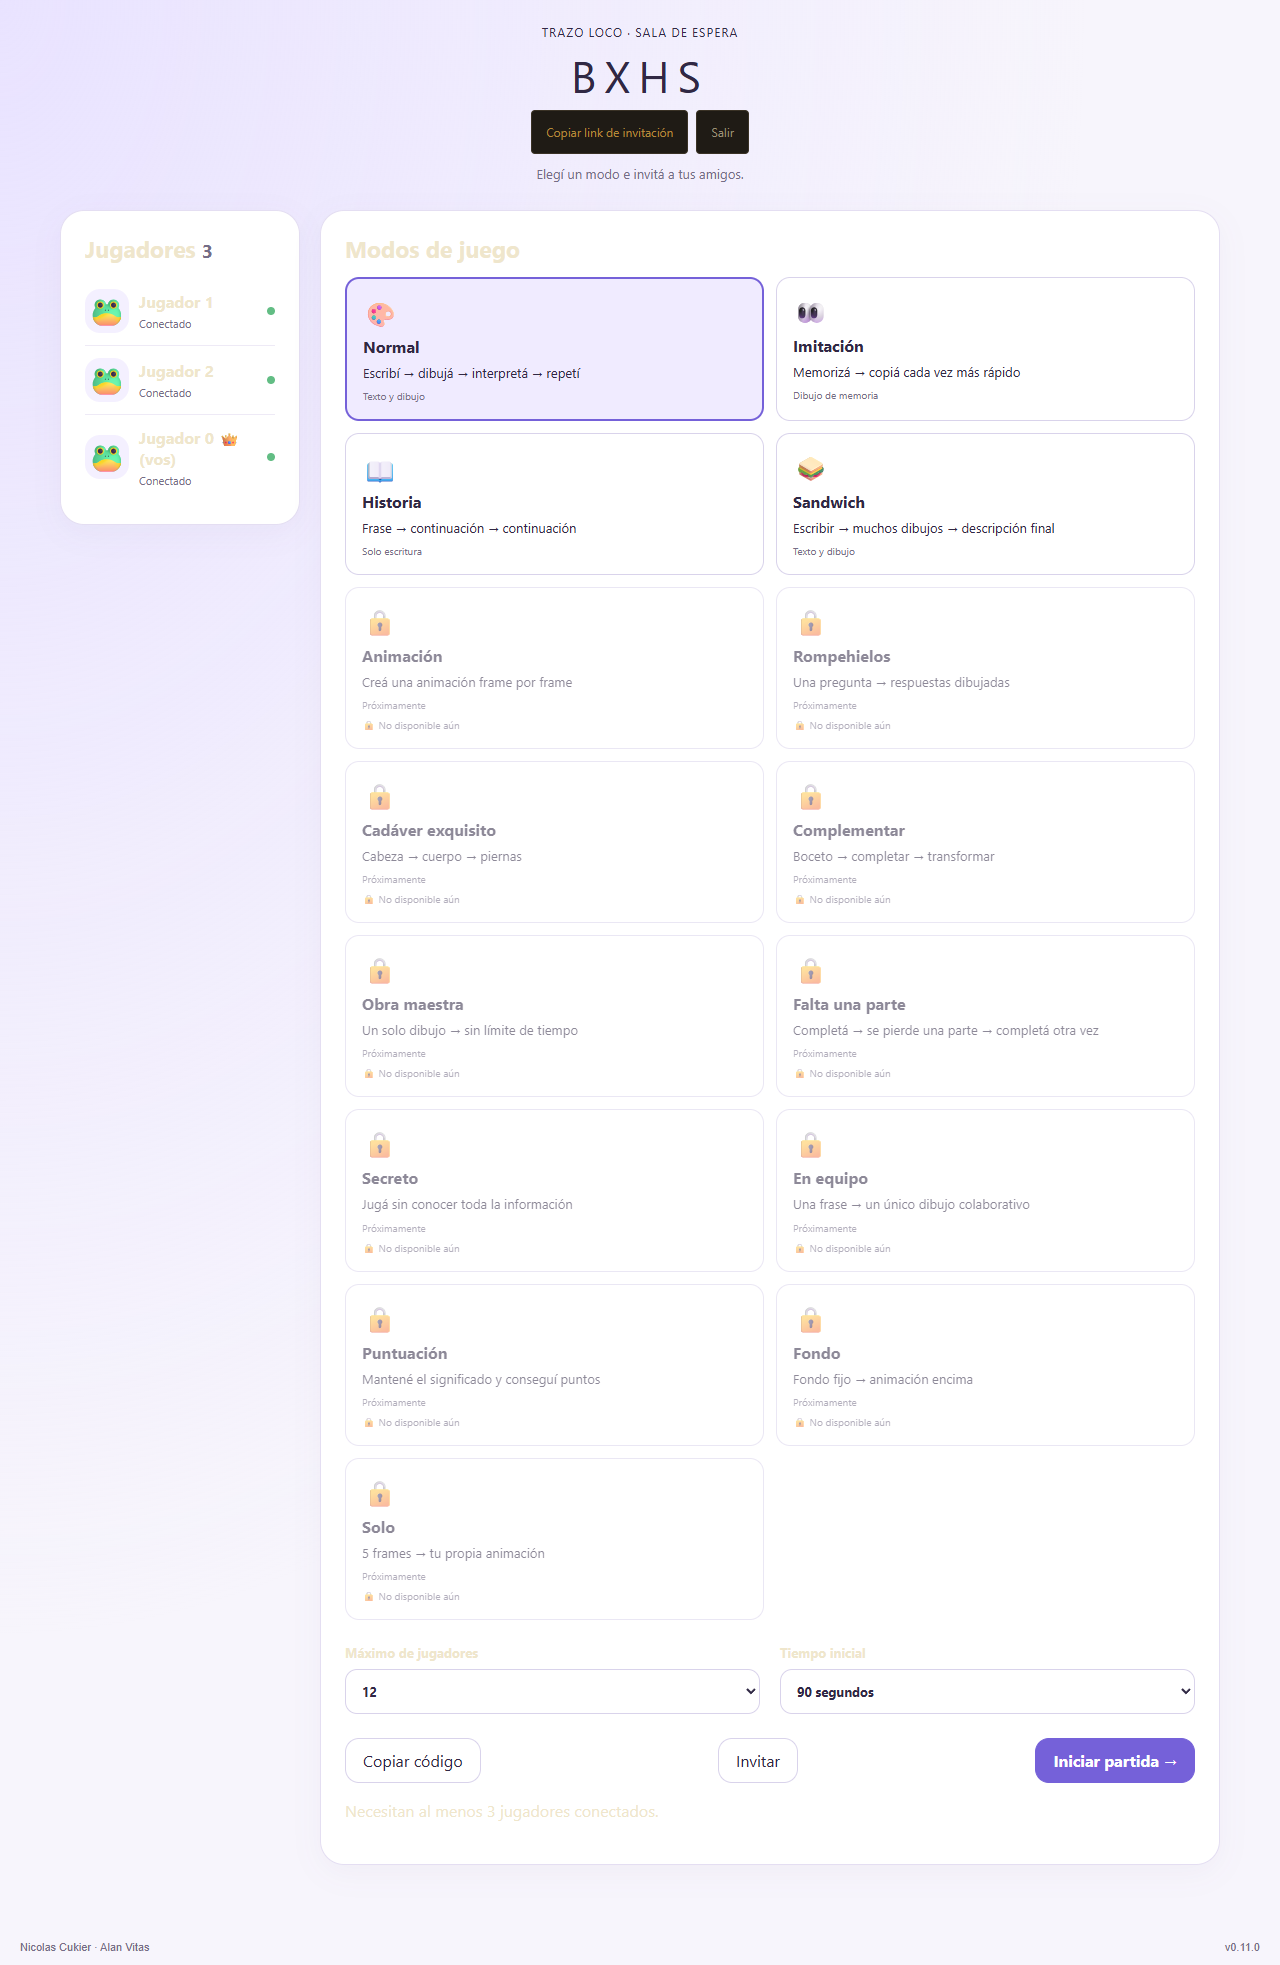
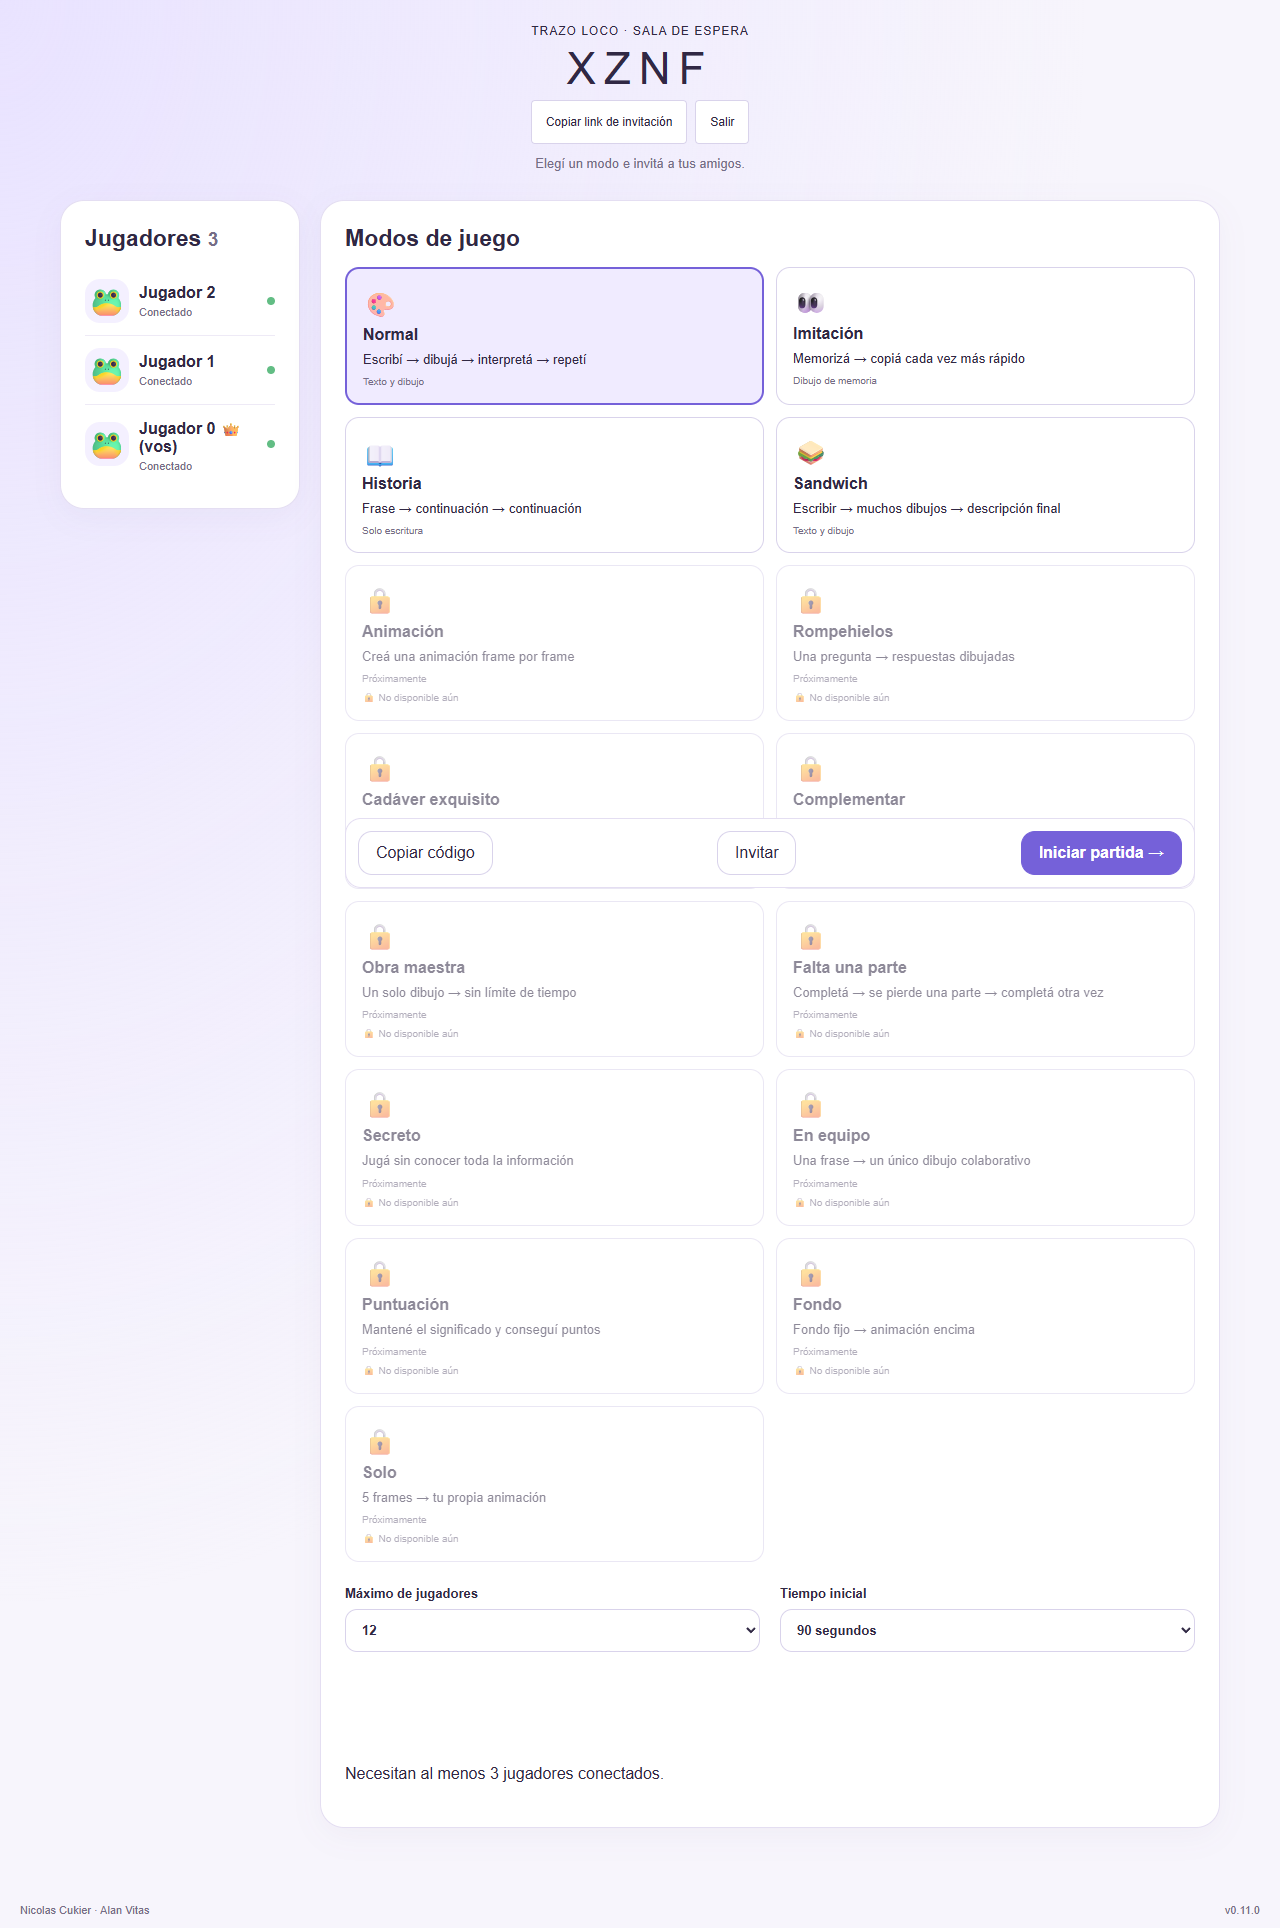
gartic y cambios

diff --git a/src/gartic/GarticApp.jsx b/src/gartic/GarticApp.jsx
@@ -124,7 +124,7 @@ export default function GarticApp({onBackToMenu}){
   const roster=<aside className="gp-card"><h2>Jugadores <small>{Object.keys(room.players).length}</small></h2>{Object.entries(room.players).map(([id,p])=><div className="gp-player" key={id}><span className="gp-avatar">{p.avatar}</span><div><strong>{p.name} {id===room.hostId?'👑':''} {id===uid?'(vos)':''}</strong><small>{connected[id]?(currentReady[id] && phase==='playing'?'✓ Listo':'Conectado'):'Reconectando…'}</small></div><i className={connected[id]?'online':''}/></div>)}</aside>;
   if(phase==='lobby')return <div className="gp-root gp-lobby"><LobbyLayout code={code} gameTitle="Trazo Loco · Sala de espera" subtitle={host?'Elegí un modo e invitá a tus amigos.':'El anfitrión elige el modo. Prepará tu imaginación.'} copied={copied==='link'} onCopyInvite={()=>copy(true)} onLeave={leave} banners={banners}>
     <div className="gp-lobby-grid">{roster}<section className="gp-card"><h2>Modos de juego</h2><div className="gp-modes">{MODES.map((mode)=><button key={mode.id} disabled={!host || !mode.available || busy} className={'gp-mode '+(room.mode===mode.id?'selected':'')} aria-pressed={room.mode===mode.id} onClick={()=>run(()=>network.configure(code,'mode',mode.id))}><span>{mode.icon}</span><strong>{mode.name}</strong><p>{mode.description}</p><small>{mode.kind}</small>{!mode.available && <small>🔒 No disponible aún</small>}</button>)}</div>
-    <div className="gp-settings"><label>Máximo de jugadores<select disabled={!host || busy} value={room.settings.maxPlayers} onChange={(e)=>run(()=>network.configure(code,'settings',{...room.settings,maxPlayers:Number(e.target.value)}))}>{[3,4,6,8,10,12,16,20].filter((n)=>n>=Object.keys(room.players).length).map((n)=><option key={n}>{n}</option>)}</select></label><label>Tiempo inicial<select disabled={!host || busy} value={room.settings.seconds} onChange={(e)=>run(()=>network.configure(code,'settings',{...room.settings,seconds:Number(e.target.value)}))}>{[45,60,90,120].map((n)=><option key={n} value={n}>{n} segundos</option>)}</select></label></div>
+    <div className="gp-settings"><label>Máximo de jugadores<select disabled={!host || busy} value={room.settings.maxPlayers} onChange={(e)=>run(()=>network.configure(code,'settings',{...room.settings,maxPlayers:Number(e.target.value)}))}>{[3,4,6,8,10,12,16,20].filter((n)=>n>=Math.max(...Object.values(room.players).map((p)=>p.index))+1).map((n)=><option key={n}>{n}</option>)}</select></label><label>Tiempo inicial<select disabled={!host || busy} value={room.settings.seconds} onChange={(e)=>run(()=>network.configure(code,'settings',{...room.settings,seconds:Number(e.target.value)}))}>{[45,60,90,120].map((n)=><option key={n} value={n}>{n} segundos</option>)}</select></label></div>
     <div className="gp-row"><button onClick={()=>copy(false)}>{copied==='code'?'¡Código copiado!':'Copiar código'}</button><button onClick={()=>copy(true)}>Invitar</button>{host && <button className="gp-primary" disabled={busy || !online || Object.keys(connected).length<3} onClick={()=>run(()=>network.start(code,room,connected))}>Iniciar partida →</button>}</div><p>{host?'Necesitan al menos 3 jugadores conectados.':'Esperando que el anfitrión inicie la partida…'}</p></section></div>
   </LobbyLayout></div>;
   return <div className="gp-root"><main className="gp-play"><header className="gp-row"><h1>🎨 Trazo Loco</h1><span>Sala {code} · {MODES.find((m)=>m.id===state.mode)?.name}</span><button onClick={leave}>Salir</button></header>{banners}<div className="gp-game-grid">{roster}<div>{phase==='reveal'?<Reveal code={code} room={room} host={host} run={run}/>:state.positions?.[uid]===undefined?<section className="gp-card">La partida ya empezó. Esperá a la próxima.</section>:ownLoaded===taskKey?<Task key={taskKey} code={code} state={state} uid={uid} initial={own} previous={previous} ready={!!currentReady[uid]} readyCount={readyCount} now={now} onError={setError}/>:<section className="gp-card">Preparando tu tarea…</section>}</div></div></main></div>;

diff --git a/src/gartic/storage.js b/src/gartic/storage.js
@@ -18,12 +18,35 @@ const roomPath = (code) => 'garticRooms/' + code;
 export const watch = (path, callback, onError) => onValue(at(path), (s) => callback(s.val()), onError);
 export const watchRoom = (code, callback, onError) => watch(roomPath(code), callback, onError);
 export const watchPresence = (code, callback) => watch('garticPresence/' + code, callback);
-export const watchReady = (code, state, callback, onError) => watch('garticReady/' + code + '/' + state.match + '/' + state.round, callback, onError);
+export function watchReady(code, state, callback, onError) {
+  let active = true, errorTimer = null;
+  const off = watch('garticReady/' + code + '/' + state.match + '/' + state.round, callback, (error) => {
+    // Una revancha revoca esta lectura; la vista cancela la escucha al recibir el estado nuevo.
+    errorTimer = setTimeout(() => { if (active) onError?.(error); }, 300);
+  });
+  return () => { active = false; clearTimeout(errorTimer); off(); };
+}
 export const watchOwnStep = (code, state, uid, callback, onError) => watch('garticSteps/' + code + '/' + state.match + '/' + state.round + '/' + uid, callback, onError);
 export function watchPrevious(code, state, author, callback, onError) {
   return watch('garticSteps/' + code + '/' + state.match + '/' + (state.round - 1) + '/' + author, callback, onError);
 }
-export const watchResults = (code, state, callback, onError) => watch('garticSteps/' + code + '/' + state.match, callback, onError);
+export function watchResults(code, state, callback, onError) {
+  let active = true, off = () => {}, retry = null, attempts = 0;
+  function listen() {
+    if (!active) return;
+    off = watch('garticSteps/' + code + '/' + state.match, (value) => {
+      if (active) callback(value);
+    }, (error) => {
+      // La autorización puede actualizarse antes que la suscripción al estado público.
+      // Una revancha desmonta esta escucha; una revelación recién confirmada puede reintentar.
+      if (!active) return;
+      if (attempts++ < 3) retry = setTimeout(listen, 250);
+      else onError?.(error);
+    });
+  }
+  listen();
+  return () => { active = false; clearTimeout(retry); off(); };
+}
 
 export async function createRoom(uid, name, avatar) {
   for (let attempt = 0; attempt < 8; attempt++) {

diff --git a/src/menu/Credits.jsx b/src/menu/Credits.jsx
@@ -25,7 +25,7 @@ export default function Credits({ inline = false }) {
           un expediente de
         </div>
         <div style={{ fontSize: 12, color: 'rgba(239, 230, 204, 0.95)', fontWeight: 600 }}>
-          Nicolas Cukier · Alan Vitas
+          Nicolas Cukier · Uriel Suti · Alan Vitas
         </div>
       </div>
 

diff --git a/CONTINUAR_GARTIC.md b/CONTINUAR_GARTIC.md
@@ -1,0 +1,120 @@
+# Continuar Trazo Loco (Gartic)
+
+Estado al cerrar la sesión: 8 de octubre de 2026, aproximadamente 10:45 (Argentina).
+El usuario pidió detener el trabajo, guardar esta continuidad y seguir en otra sesión. Indicó que ya hizo push a Git. No hacer cambios ni publicaciones adicionales hasta que retome el trabajo.
+
+## Estado actual
+
+Se implementó el prompt completo de los cuatro modos disponibles en el proyecto React existente, con identidad propia: **Trazo Loco**.
+
+**El código y las reglas ya están publicados** en:
+https://secreto-aed7e.web.app/?juego=gartic
+
+Firebase Hosting: versión `34c6903deedb37c5`, publicada el 08/10/2026 a las 10:44 (Argentina).
+Proyecto: `secreto-aed7e`.
+Antes de publicar se descargaron las reglas vigentes y se comprobó que las ramas originales `rooms` y `futbol`, y los permisos raíz, coincidían con el archivo local. Se conservaron esas reglas y se agregaron únicamente las ramas del nuevo juego.
+
+**Pendiente obligatorio: inicializar Firebase Authentication y habilitar el proveedor Anónimo.**
+Mientras ese paso esté pendiente, el sitio muestra el juego pero no puede crear/unirse a salas de Trazo Loco. Los demás juegos conservan su infraestructura.
+
+## Paso pendiente de Authentication
+
+El usuario ya autorizó explícitamente:
+“Autorizar configuración y publicación”, para habilitar acceso anónimo en `secreto-aed7e` y publicar hosting/reglas.
+No pedir de nuevo esa autorización para la misma acción. No hay autorización para cambiar el plan ni habilitar facturación.
+
+Hay sesión autenticada de Firebase CLI disponible en este equipo; si expiró, revisar si la CLI puede renovar antes de pedir otro login.
+
+La lectura oficial:
+`GET https://identitytoolkit.googleapis.com/admin/v2/projects/secreto-aed7e/config`
+devolvió `404 CONFIGURATION_NOT_FOUND`.
+
+El PATCH dirigido únicamente a `signIn.anonymous.enabled` también devolvió 404.
+El intento de inicialización por la API pública `identityPlatform:initializeAuth` devolvió:
+`400 BILLING_NOT_ENABLED : Identity Platform feature requires billing to be enabled.`
+
+**No se habilitó facturación ni se cambió el plan.**
+Para continuar, el usuario debe abrir:
+https://console.firebase.google.com/project/secreto-aed7e/authentication
+pulsar **Comenzar** y activar **Anónimo** en los métodos de acceso usando la configuración estándar de Firebase.
+
+Cuando esté hecho, comprobar el acceso anónimo desde el sitio publicado y completar una partida real con tres navegadores/dispositivos separados. Limpiar únicamente las salas y usuarios de prueba creados en esa verificación, nunca datos de terceros.
+
+## Implementación terminada
+
+- Menú y navegación existentes: `?juego=gartic`, invitaciones con `&sala=ABCD`.
+- Lobby con código/enlace, nombre compartido de la plataforma, avatares, participantes y anfitrión.
+- Máximo configurable hasta 20; mínimo 3 para empezar.
+- Normal, Imitación, Historia y Sandwich con secuencias propias.
+- Las otras once modalidades quedan con candado, según el prompt. No implementarlas ni desbloquearlas sin un nuevo pedido.
+- Reparto simultáneo y rotación de cadenas sin devolverlas al creador.
+- Editor con lápiz, goma, línea, rectángulo/círculo con y sin relleno, balde, colores, grosor, limpiar, deshacer y rehacer.
+- Mouse y touch; responsive móvil.
+- Borradores, recuperación tras recargar, envío al vencer el reloj y espera colectiva.
+- Hora del servidor, validación de avances en reglas y transferencia de anfitrión.
+- Revelación progresiva, reproducción/pausa, álbumes y revancha.
+- Auth anónimo con persistencia por pestaña y conexión Firebase compartida.
+- El nuevo juego no usa el JSON público de `rooms/`: sus contenidos privados están en ramas separadas y protegidas por reglas.
+- Versión visual y changelog: 0.11.0.
+
+## Archivos relevantes
+
+- `src/gartic/GarticApp.jsx`: flujo, lobby y coordinación.
+- `src/gartic/game.js`: lógica pura de modos, reparto y álbumes.
+- `src/gartic/storage.js`: listeners, transacciones, autenticación y presencia.
+- `src/gartic/DrawingCanvas.jsx`, `drawing.js`, `Task.jsx`, `Reveal.jsx`, `gartic.css`.
+- `src/firebase.js`: app y conexión compartidas; soporte opcional de emuladores.
+- `src/App.jsx`, `src/menu/MainMenu.jsx`: integración.
+- `src/menu/Credits.jsx`: versión y variante de créditos debajo del juego para no tapar controles.
+- `database.rules.json`: nuevas reglas y originales conservadas.
+- `docs/GARTIC.md`: arquitectura, límites y verificación.
+- `docs/gartic/`: capturas del lobby, móvil y resultados.
+- `updates`: registro de la actualización.
+- `tests/gartic.test.js`, `gartic.rules.mjs`, `gartic.browser.mjs`.
+
+## Verificación completada
+
+- 116 tests de lógica (incluidos los 110 existentes).
+- 5 tests de reglas en Firebase Emulator Suite.
+- Partidas completas en Microsoft Edge headless con contextos separados, uno móvil/táctil:
+  Normal, Historia, Imitación y Sandwich (este último con cuatro jugadores).
+- Verificados espera colectiva, frases reales recibidas por otro jugador, recuperación al recargar, dibujo con mouse/touch, deshacer/rehacer, referencia de Imitación ocultada, álbumes y transferencia del anfitrión.
+- Sin errores de React ni alertas de la partida al finalizar.
+- `npm run build` pasó. Hay una advertencia de Vite por un bundle de unos 644 kB; no es un error.
+- `git diff --check` pasó.
+- Deploy de hosting y database completado con código 0.
+- **Falta la prueba multiplayer en producción después de activar Authentication.**
+
+Durante las pruebas se corrigió el uso de confirmaciones de una ronda anterior, se eligió un único coordinador conectado y se controlaron las cancelaciones esperadas de listeners al revocar acceso a álbumes/listos durante una revancha.
+
+## Git y cambios del usuario
+
+Al comenzar había una modificación del usuario en los créditos:
+“Nicolas Cukier · Alan Vitas”. Se conservó.
+Durante esta sesión apareció el commit `0bb87dd gartic`, realizado externamente. No lo creó el asistente.
+Después de ese commit se hicieron correcciones finales y se actualizaron capturas/documentación: revisar `git status` y `git diff` antes de continuar. No asumir que todo lo publicado está incluido en el push del usuario. No hacer commit/push automáticamente.
+
+## Entorno de pruebas
+
+Windows / PowerShell bloqueado por política de grupo. Los comandos funcionaron con:
+`shell: C:\\Windows\\System32\\cmd.exe`, `login: false`.
+El sandbox es de solo lectura; las escrituras y ejecución con red requieren escalación.
+Para scripts Node, codificar el script en base64 y ejecutarlo con `node -e eval(Buffer.from(...,'base64').toString())` evita problemas de comillas y operadores de cmd. La línea de cmd no debe superar ~8.000 caracteres.
+
+Node 24.13.1. Firebase CLI 15.33.0 mediante `npx --yes firebase-tools`.
+En esta red fue necesario `NODE_USE_SYSTEM_CA=1` o `node --use-system-ca`; no deshabilitar TLS.
+Java 21 temporal descargado en:
+`C:\\Users\\49006840\\AppData\\Local\\Temp\\gartic-jdk21\\jdk-21.0.12.1+1`.
+El Java del sistema es 8 y no alcanza para el emulador actual.
+
+Los tests de navegador usan Edge instalado, no Chromium descargado.
+Para pruebas locales:
+1. Java 21 en PATH.
+2. `npx firebase-tools emulators:start --only database,auth --project demo-secreto`.
+3. `npm run test:gartic:rules`.
+4. `set VITE_FIREBASE_EMULATORS=true&& npm run dev -- --host 127.0.0.1 --port 5187`.
+5. `npm run test:gartic:browser`.
+
+La prueba de navegador carga las reglas solo en localhost y limpia su propia sala al terminar. No usar estas instrucciones para reemplazar reglas de producción sin comparar las vigentes.
+
+Los servidores locales de prueba fueron cerrados al terminar. Se limpiaron dist/, .firebase/ y el log del emulador; las capturas y el código se conservan. El archivo de créditos figura modificado otra vez al cerrar: revisar esa diferencia del usuario antes de tocarlo.

diff --git a/docs/GARTIC.md b/docs/GARTIC.md
@@ -62,6 +62,6 @@ npm run build
 npx firebase-tools deploy --only database,hosting --project secreto-aed7e
 ```
 
-La publicación quedó pendiente en esta sesión porque Firebase CLI no tenía una sesión autenticada.
+El código y las reglas se publicaron el 08/10/2026 en https://secreto-aed7e.web.app/?juego=gartic. Las reglas vigentes de los otros juegos fueron comparadas y se conservaron. Queda pendiente inicializar Authentication desde Firebase Console y habilitar Anónimo: la API pública de inicialización exige facturación, que no se habilitó. El usuario pidió continuar ese paso en otra sesión; el estado completo está en ../CONTINUAR_GARTIC.md.
 
 Referencias: [reglas de acceso](https://firebase.google.com/docs/database/security/core-syntax), [presencia y hora del servidor](https://firebase.google.com/docs/database/web/offline-capabilities), [autenticación anónima](https://firebase.google.com/docs/auth/web/anonymous-auth).
